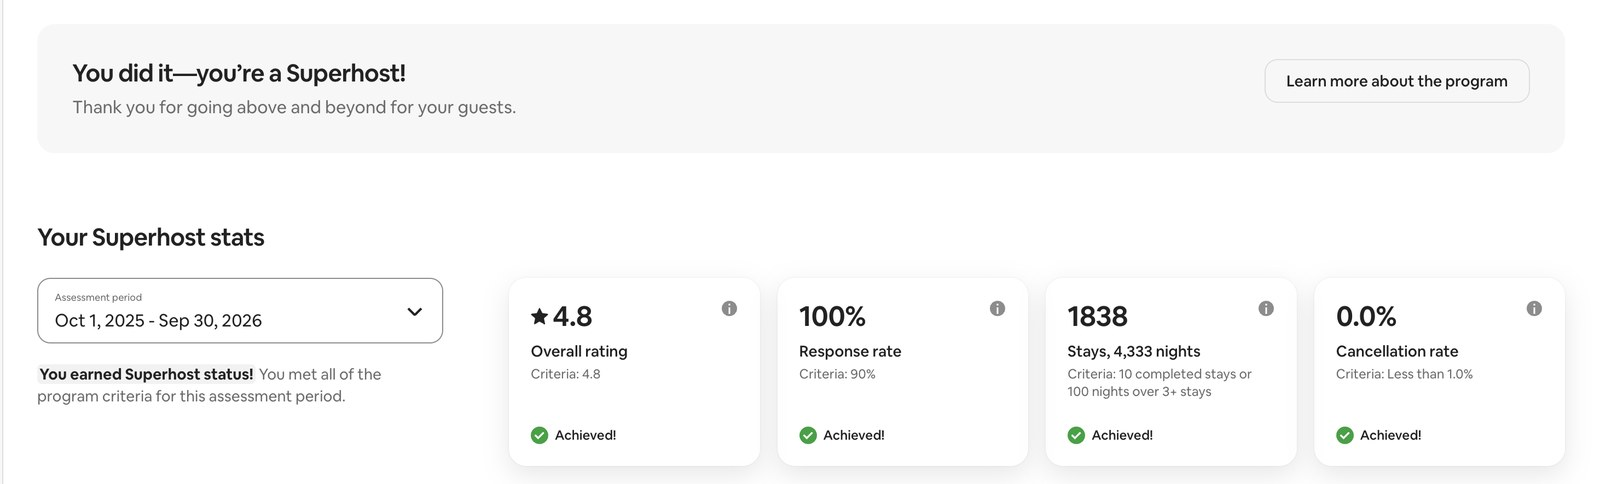
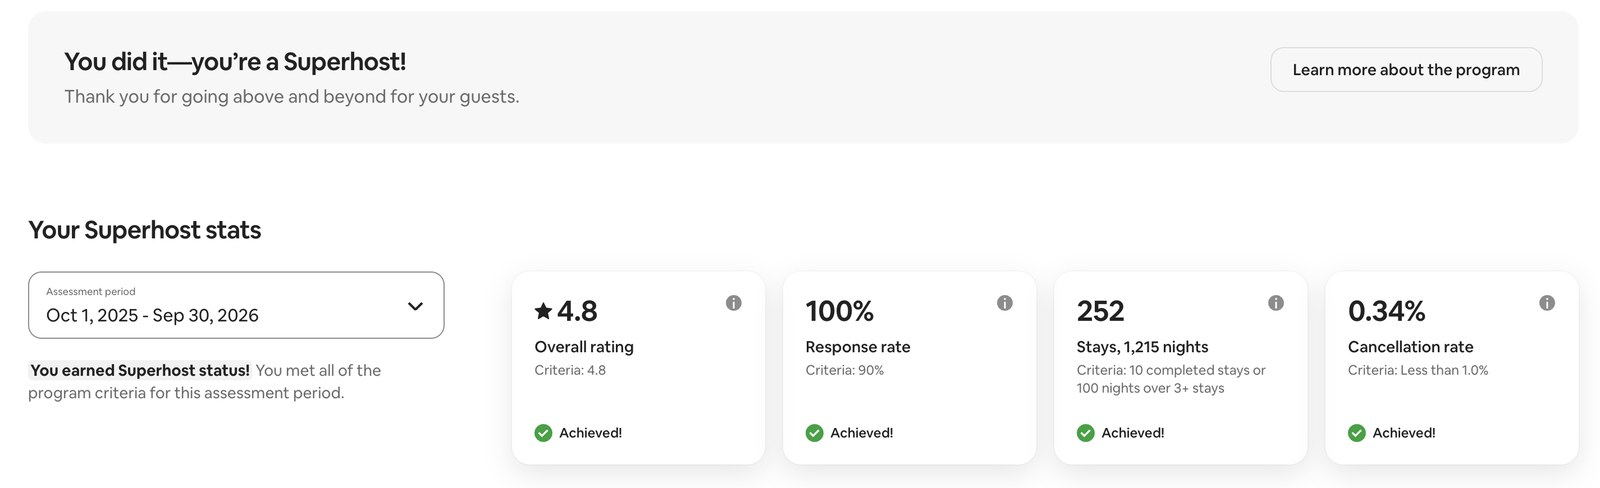
Fix Regal Bricks proof screenshot; add Boston Superhost after screenshot
Claude-Session: https://claude.ai/code/session_01VUmTHdhDdekSkdCby4Hec9

diff --git a/src/pages/Index.tsx b/src/pages/Index.tsx
@@ -10,6 +10,7 @@ import founderPhoto from "@/assets/founder.jpg";
 import clientOccupancyBefore from "@/assets/client-occupancy-before.jpg";
 import clientOccupancyAfter from "@/assets/client-occupancy-after.jpg";
 import clientSuperhostLost from "@/assets/client-superhost-lost.jpg";
+import clientSuperhostAfter from "@/assets/client-superhost-after.jpg";
 import jacobPhoto from "@/assets/jacob-nostrant.jpg";
 import crewLogo from "@/assets/crew-housing-logo.png";
 import sikanderPhoto from "@/assets/sikander-zafar.jpg";
@@ -338,11 +339,12 @@ const Index = () => {
             </p>
           </ScrollReveal>
 
-          <div className="grid grid-cols-1 md:grid-cols-3 gap-6 mb-14">
+          <div className="grid grid-cols-1 md:grid-cols-2 gap-6 mb-14">
             {[
               { src: clientOccupancyBefore, alt: "Airbnb occupancy report for January to April showing a 68.5% average occupancy rate across 24 listings", caption: "Occupancy, Jan 1 – Apr 30: 68.5%" },
               { src: clientOccupancyAfter, alt: "Airbnb occupancy report for May to October showing a 91.9% average occupancy rate across 24 listings", caption: "Occupancy, May 1 – Oct 5: 91.9%" },
-              { src: clientSuperhostLost, alt: "Airbnb Superhost assessment showing Superhost status not earned for the July 2025 to June 2026 period", caption: "Superhost assessment before we took over" },
+              { src: clientSuperhostLost, alt: "Airbnb Superhost assessment showing Superhost status not earned for the July 2025 to June 2026 period, with a 4.7 overall rating", caption: "Before: Superhost not earned, 4.7 rating (Jul 2025 – Jun 2026)" },
+              { src: clientSuperhostAfter, alt: "Airbnb Superhost assessment showing Superhost status earned for the October 2025 to September 2026 period, with a 4.8 overall rating", caption: "After: Superhost earned, 4.8 rating (Oct 2025 – Sep 2026)" },
             ].map((shot, i) => (
               <ScrollReveal key={shot.caption} delay={i * 0.08}>
                 <figure className="h-full flex flex-col">
